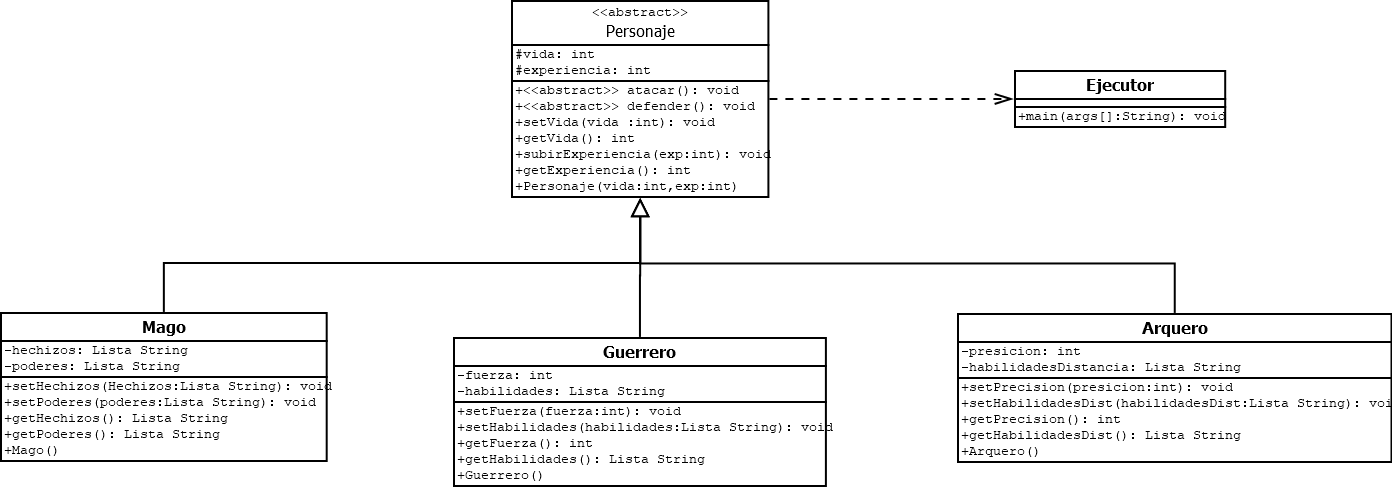
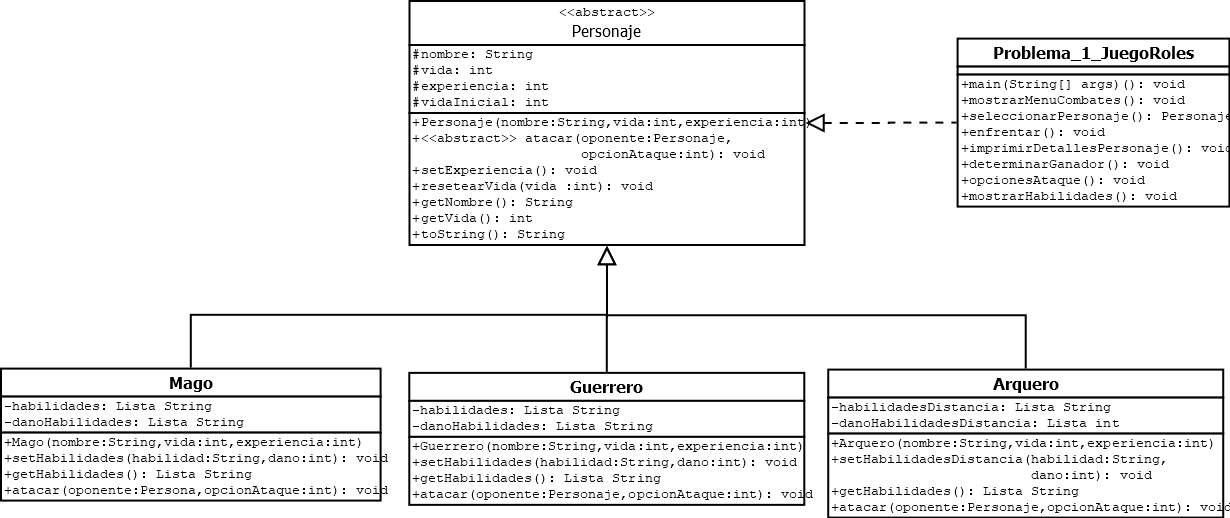
TERMINADO

Changed region(s): [[0.0, 0.0, 1.0, 1.0], [0.3089, 0.0, 0.3707, 0.0308]]

diff --git a/Solucion_Codigo/taller_11_grupal/taller_11_grupal/src/problema_1_JuegoRoles.java b/Solucion_Codigo/taller_11_grupal/taller_11_grupal/src/problema_1_JuegoRoles.java
@@ -1,31 +1,289 @@
-//AUTOR: RICARDO ESPINOSA Y JUAN DIEGO GUERRERO
 import java.util.ArrayList;
+import java.util.Random;
+import java.util.Scanner;
+
 public class problema_1_JuegoRoles {
+
+    public static Scanner tc = new Scanner(System.in);
+    public static Random random = new Random();
+
     public static void main(String[] args) {
-        
+        Guerrero guerrero = new Guerrero("Guerrero", 120, 0);
+        Mago mago = new Mago("Mago", 95, 0);
+        Arquero arquero = new Arquero("Arquero", 105, 0);
+        mago.setHabilidades("Poder de Fuego", 30);
+        mago.setHabilidades("Hechizo de Desintegracion", 25);
+        guerrero.setHabilidades("Golpe Debil con Espada", 25);
+        guerrero.setHabilidades("Golpe Fuerte con Espada", 30);
+        arquero.setHabilidadesDistancia("Flecha Explosiva", 35);
+        arquero.setHabilidadesDistancia("Disparo Rapido", 15);
+        Personaje jugador = seleccionarPersonaje(guerrero, mago, arquero);
+        Personaje oponente = null;
+        int opcion1;
+        do {
+            mostrarMenuCombates();
+            opcion1 = tc.nextInt();
+            if (opcion1 >= 1 && opcion1 <= 3) {
+                switch (opcion1) {
+                    case 1:
+                        if (jugador != guerrero) {
+                            oponente = guerrero;
+                        } else {
+                            System.out.println("No puedes enfrentarte a otro Guerrero");
+                        }
+                        break;
+                    case 2:
+                        if (jugador != mago) {
+                            oponente = mago;
+                        } else {
+                            System.out.println("No puedes enfrentarte a otro Mago");
+                        }
+                        break;
+                    case 3:
+                        if (jugador != arquero) {
+                            oponente = arquero;
+                        } else {
+                            System.out.println("No puedes enfrentarte a otro Arquero");
+                        }
+                        break;
+                }
+                if (oponente != null) {
+                    enfrentar(jugador, oponente);
+                    determinarGanador(jugador, oponente); // Llamada aqui para determinar ganador despues de cada enfrentamiento
+                }
+            } else if (opcion1 != 4) {
+                System.out.println("Opcion no valida");
+            }
+        } while (opcion1 != 4);
+        System.out.println("Saliendo del juego");
+        tc.close();
+    }
+
+    private static void mostrarMenuCombates() {
+        System.out.println("Menu de Combates");
+        System.out.println("1) Enfrentarse a Guerrero");
+        System.out.println("2) Enfrentarse a Mago");
+        System.out.println("3) Enfrentarse a Arquero");
+        System.out.println("4) Salir");
+        System.out.print("Elige una opcion: ");
+    }
+
+    private static Personaje seleccionarPersonaje(Guerrero guerrero, Mago mago, Arquero arquero) {
+        int opcion2;
+        Personaje jugador = null;
+        do {
+            System.out.println("Elige tu personaje:");
+            System.out.println("1. Guerrero");
+            System.out.println("2. Mago");
+            System.out.println("3. Arquero");
+            opcion2 = tc.nextInt();
+            switch (opcion2) {
+                case 1:
+                    jugador = guerrero;
+                    System.out.println(jugador);
+                    break;
+                case 2:
+                    jugador = mago;
+                    System.out.println(jugador);
+                    break;
+                case 3:
+                    jugador = arquero;
+                    System.out.println(jugador);
+                    break;
+                default:
+                    System.out.println("Opcion no valida");
+            }
+            if (jugador != null) {
+                imprimirDetallesPersonaje(jugador);
+            }
+        } while (jugador == null);
+
+        return jugador;
+    }
+
+    private static void enfrentar(Personaje jugador, Personaje oponente) {
+        oponente.resetearVida();
+        while (jugador.getVida() > 0 && oponente.getVida() > 0) {
+            opcionesAtaque(jugador);
+            int opcionAtaque = tc.nextInt();
+            jugador.atacar(oponente, opcionAtaque);
+
+            if (oponente.getVida() > 0) {
+                int ataqueAleatorio = random.nextInt(2) + 1;
+                oponente.atacar(jugador, ataqueAleatorio);
+            }
+        }
+        jugador.resetearVida();
+    }
+
+    private static void imprimirDetallesPersonaje(Personaje personaje) {
+        System.out.println(personaje);
+    }
+
+    private static void determinarGanador(Personaje jugador, Personaje oponente) {
+        if (jugador.getVida() > 0) {
+            jugador.setExperiencia();
+            System.out.println(jugador + " ha ganado la batalla");
+
+        } else {
+            oponente.setExperiencia();
+            System.out.println(jugador + " ha ganado la batalla");
+
+        }
+    }
+
+    private static void opcionesAtaque(Personaje jugador) {
+        if (jugador instanceof Guerrero) {
+            Guerrero guerrero = (Guerrero) jugador;
+            mostrarHabilidades(guerrero.getHabilidades());
+        } else if (jugador instanceof Mago) {
+            Mago mago = (Mago) jugador;
+            mostrarHabilidades(mago.getHabilidades());
+        } else if (jugador instanceof Arquero) {
+            Arquero arquero = (Arquero) jugador;
+            mostrarHabilidades(arquero.getHabilidadesDistancia());
+        }
+        System.out.print("Elige una opcion de ataque: ");
+    }
+
+    private static void mostrarHabilidades(ArrayList<String> habilidades) {
+        for (int i = 0; i < habilidades.size(); i++) {
+            System.out.println((i + 1) + ". " + habilidades.get(i));
+        }
     }
 }
-//CLASE PADRE
-abstract class Personaje{
-    //ATRIBUTOS
+
+abstract class Personaje {
+
+    protected String nombre;
     protected int vida;
     protected int experiencia;
+    protected int vidaInicial;
+
+    public Personaje(String nombre, int vida, int experiencia) {
+        this.nombre = nombre;
+        this.vida = vida;
+        this.experiencia = experiencia;
+        this.vidaInicial = vida;
+    }
+
+    public abstract void atacar(Personaje oponente, int opcionAtaque);
+
+    public void setExperiencia() {
+        this.experiencia += 5;
+    }
+
+    public void resetearVida() {
+        this.vida = this.vidaInicial;
+    }
+
+    public String getNombre() {
+        return nombre;
+    }
+
+    public int getVida() {
+        return vida;
+    }
+
+    @Override
+    public String toString() {
+        StringBuilder sb = new StringBuilder();
+        sb.append("|Personaje ").append(nombre);
+        sb.append("|vida ").append(vida);
+        sb.append("|experiencia ").append(experiencia).append("|");
+        return sb.toString();
+    }
 }
-//CLASE HIJA 1
-class Mago extends Personaje{
-    //ATRIBUTOS
-    private ArrayList<String> hechizos;
-    private ArrayList<String> poderes;
-}
-//CLASE HIJA 2
-class Guerrero extends Personaje{
-    //ATRIBUTOS
-    private int fuerza;
+
+class Mago extends Personaje {
+
     private ArrayList<String> habilidades;
+    private ArrayList<Integer> danoHabilidades;
+
+    public Mago(String nombre, int vida, int experiencia) {
+        super(nombre, vida, experiencia);
+        this.habilidades = new ArrayList<>();
+        this.danoHabilidades = new ArrayList<>();
+    }
+
+    public void setHabilidades(String hechizo, int dano) {
+        habilidades.add(hechizo);
+        danoHabilidades.add(dano);
+    }
+
+    public ArrayList<String> getHabilidades() {
+        return habilidades;
+    }
+
+    @Override
+    public void atacar(Personaje oponente, int opcionAtaque) {
+        if (opcionAtaque > 0 && opcionAtaque <= habilidades.size()) {
+            int dano = danoHabilidades.get(opcionAtaque - 1);
+            oponente.vida -= dano;
+        } else {
+            System.out.println("Opcion de ataque no valida");
+        }
+    }
 }
-//CLASE HIJA 3
-class Arquero extends Personaje{
-    //ATRIBUTOS
-    private int precision;
+
+class Guerrero extends Personaje {
+
+    private ArrayList<String> habilidades;
+    private ArrayList<Integer> danoHabilidades;
+
+    public Guerrero(String nombre, int vida, int experiencia) {
+        super(nombre, vida, experiencia);
+        this.habilidades = new ArrayList<>();
+        this.danoHabilidades = new ArrayList<>();
+    }
+
+    public void setHabilidades(String habilidad, int dano) {
+        habilidades.add(habilidad);
+        danoHabilidades.add(dano);
+    }
+
+    public ArrayList<String> getHabilidades() {
+        return habilidades;
+    }
+
+    @Override
+    public void atacar(Personaje oponente, int opcionAtaque) {
+        if (opcionAtaque > 0 && opcionAtaque <= habilidades.size()) {
+            int dano = danoHabilidades.get(opcionAtaque - 1);
+            oponente.vida -= dano;
+        } else {
+            System.out.println("Opcion de ataque no valida");
+        }
+    }
+}
+
+class Arquero extends Personaje {
+
     private ArrayList<String> habilidadesDistancia;
+    private ArrayList<Integer> danoHabilidadesDistancia;
+
+    public Arquero(String nombre, int vida, int experiencia) {
+        super(nombre, vida, experiencia);
+        this.habilidadesDistancia = new ArrayList<>();
+        this.danoHabilidadesDistancia = new ArrayList<>();
+    }
+
+    public void setHabilidadesDistancia(String habilidad, int dano) {
+        habilidadesDistancia.add(habilidad);
+        danoHabilidadesDistancia.add(dano);
+    }
+
+    public ArrayList<String> getHabilidadesDistancia() {
+        return habilidadesDistancia;
+    }
+
+    @Override
+    public void atacar(Personaje oponente, int opcionAtaque) {
+        if (opcionAtaque > 0 && opcionAtaque <= habilidadesDistancia.size()) {
+            int dano = danoHabilidadesDistancia.get(opcionAtaque - 1);
+            oponente.vida -= dano;
+        } else {
+            System.out.println("Opcion de ataque no valida");
+        }
+    }
 }
